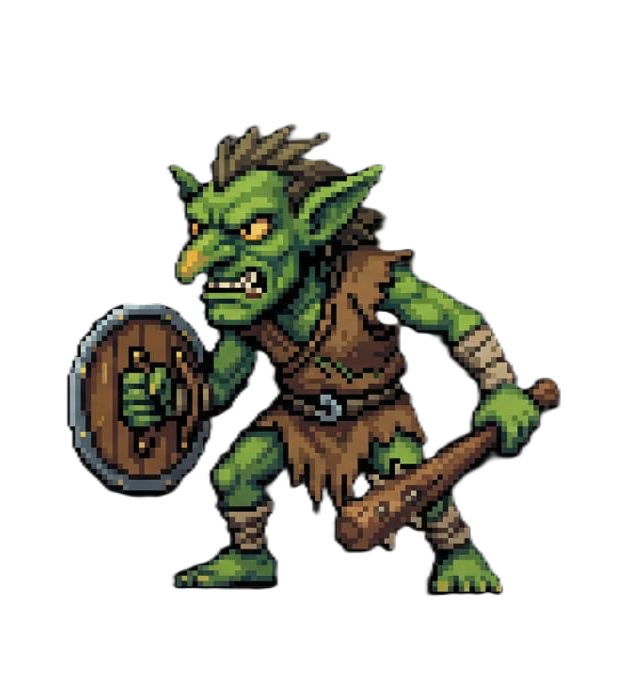
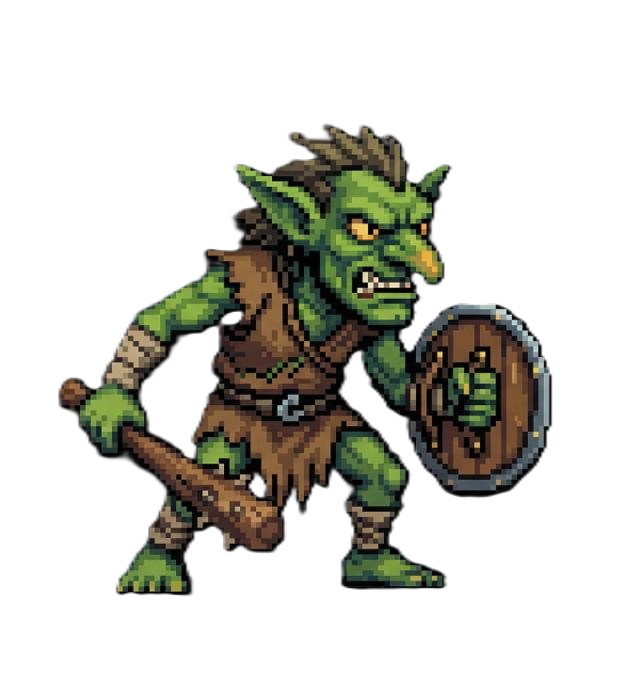
Refactorizar el combate, los enemigos, las plataformas y los recursos.
Actualizar recursos y renovar los sistemas de juego de StoryMode: reemplazar/agregar imágenes (Duende.png actualizado, curacion.png agregado). Ajustar la tasa de aparición de gemas (2000 -> 7000 ms) y refinar el cálculo del centro de recolección de gemas. Acortar la animación de ataque (fotogramas/duración) y hacer que el movimiento cancele/interrumpa los ataques; inicializar la velocidad vertical del proyectil. Cambiar la lógica de impacto del proyectil para disminuir enemy.health y solo eliminar enemigos cuando health <= 0; los enemigos ahora tienen maxHealth y comienzan con 3 HP. Rediseñar las plataformas flotantes en muchas zonas temáticas con posiciones/alturas variadas. Mejorar la representación de enemigos: sprite de duende más grande, volteo horizontal para mirar al jugador y una barra de HP medieval estilizada con degradado/reflejo. Correcciones y comentarios varios para coincidir con los nuevos comportamientos.

diff --git a/js/story.js b/js/story.js
@@ -144,7 +144,7 @@ export class StoryMode {
         this.gems = [];
         this.maxGems = 5; // Cantidad fija de gemas en el escenario
         this.gemSpawnTimer = 0;
-        this.gemSpawnInterval = 2000;
+        this.gemSpawnInterval = 7000;
 
         // Proyectiles
         this.projectiles = [];
@@ -190,7 +190,7 @@ export class StoryMode {
                 idle: { start: 0, end: 3 },
                 walking: { start: 4, end: 18 },
                 jumping: { start: 19, end: 30 },
-                attacking: { start: 33, end: 48 }
+                attacking: { start: 33, end: 43 }
             }
         };
 
@@ -262,37 +262,82 @@ export class StoryMode {
             isFloor: true
         });
 
-        // Plataformas flotantes — posiciones Y relativas al suelo para adaptarse a cualquier resolución
-        // Salto máximo ~144px, así que las plataformas están en 3 niveles alcanzables:
-        //   Nivel 1: 100-130px sobre el suelo (alcanzable desde el suelo)
-        //   Nivel 2: 200-240px sobre el suelo (alcanzable desde nivel 1)
-        //   Nivel 3: 300-340px sobre el suelo (alcanzable desde nivel 2)
+        // Plataformas flotantes — alturas variadas y patrones únicos por zona
+        // Salto máximo ~144px. Nivel 1: alcanzable desde suelo. Nivel 2: alcanzable desde nivel 1 cercano.
         const groundY = this.config.height - 50;
 
         const floatingPlatforms = [
-            // Nivel 1 — alcanzable desde el suelo
-            { x: 400, y: groundY - 120, width: 120, height: 20 },
-            { x: 1050, y: groundY - 100, width: 110, height: 20 },
-            { x: 2100, y: groundY - 110, width: 150, height: 20 },
-            { x: 2700, y: groundY - 120, width: 140, height: 20 },
-            { x: 3300, y: groundY - 100, width: 130, height: 20 },
-            { x: 4500, y: groundY - 110, width: 120, height: 20 },
-            { x: 5100, y: groundY - 120, width: 130, height: 20 },
-            { x: 5700, y: groundY - 100, width: 100, height: 20 },
-            // Nivel 2 — alcanzable desde nivel 1
-            { x: 600, y: groundY - 220, width: 100, height: 20 },
-            { x: 1550, y: groundY - 210, width: 120, height: 20 },
-            { x: 2400, y: groundY - 230, width: 120, height: 20 },
-            { x: 3000, y: groundY - 220, width: 110, height: 20 },
-            { x: 3900, y: groundY - 210, width: 100, height: 20 },
-            { x: 4800, y: groundY - 230, width: 110, height: 20 },
-            { x: 5400, y: groundY - 220, width: 120, height: 20 },
-            // Nivel 3 — alcanzable desde nivel 2
-            { x: 800, y: groundY - 330, width: 140, height: 20 },
-            { x: 1300, y: groundY - 320, width: 130, height: 20 },
-            { x: 1800, y: groundY - 310, width: 100, height: 20 },
-            { x: 3600, y: groundY - 330, width: 120, height: 20 },
-            { x: 4200, y: groundY - 320, width: 140, height: 20 }
+            // === ZONA 1: Escalera ascendente (x: 300-1100) ===
+            { x: 350,  y: groundY - 60,  width: 150, height: 20 },
+            { x: 580,  y: groundY - 100, width: 120, height: 20 },
+            { x: 820,  y: groundY - 135, width: 100, height: 20 },
+            { x: 700,  y: groundY - 210, width: 90,  height: 20 },
+
+            // === ZONA 2: Plataformas bajas y anchas (x: 1200-1900) ===
+            { x: 1200, y: groundY - 70,  width: 180, height: 20 },
+            { x: 1500, y: groundY - 80,  width: 160, height: 20 },
+            { x: 1750, y: groundY - 65,  width: 170, height: 20 },
+
+            // === ZONA 3: Zigzag vertical (x: 2000-2800) ===
+            { x: 2050, y: groundY - 130, width: 100, height: 20 },
+            { x: 2250, y: groundY - 70,  width: 110, height: 20 },
+            { x: 2450, y: groundY - 120, width: 95,  height: 20 },
+            { x: 2650, y: groundY - 60,  width: 130, height: 20 },
+            { x: 2350, y: groundY - 200, width: 85,  height: 20 },
+
+            // === ZONA 4: Torre con escalones (x: 2900-3500) ===
+            { x: 2950, y: groundY - 80,  width: 140, height: 20 },
+            { x: 3100, y: groundY - 140, width: 110, height: 20 },
+            { x: 3050, y: groundY - 205, width: 100, height: 20 },
+            { x: 3350, y: groundY - 90,  width: 120, height: 20 },
+
+            // === ZONA 5: Plataformas gemelas (x: 3600-4300) ===
+            { x: 3650, y: groundY - 100, width: 100, height: 20 },
+            { x: 3850, y: groundY - 100, width: 100, height: 20 },
+            { x: 3750, y: groundY - 190, width: 130, height: 20 },
+            { x: 4100, y: groundY - 75,  width: 150, height: 20 },
+
+            // === ZONA 6: Dispersas y variadas (x: 4400-5200) ===
+            { x: 4450, y: groundY - 115, width: 90,  height: 20 },
+            { x: 4700, y: groundY - 60,  width: 170, height: 20 },
+            { x: 4950, y: groundY - 130, width: 80,  height: 20 },
+            { x: 4600, y: groundY - 195, width: 100, height: 20 },
+            { x: 5150, y: groundY - 85,  width: 140, height: 20 },
+
+            // === ZONA 7: Escalera descendente (x: 5300-6100) ===
+            { x: 5350, y: groundY - 140, width: 100, height: 20 },
+            { x: 5550, y: groundY - 110, width: 120, height: 20 },
+            { x: 5780, y: groundY - 75,  width: 150, height: 20 },
+            { x: 5450, y: groundY - 210, width: 85,  height: 20 },
+            { x: 6050, y: groundY - 95,  width: 110, height: 20 },
+
+            // === ZONA 8: Puente con hueco (x: 6200-7000) ===
+            { x: 6250, y: groundY - 90,  width: 160, height: 20 },
+            { x: 6600, y: groundY - 90,  width: 160, height: 20 },
+            { x: 6420, y: groundY - 185, width: 100, height: 20 },
+            { x: 6900, y: groundY - 120, width: 100, height: 20 },
+
+            // === ZONA 9: Alturas extremas variadas (x: 7100-7900) ===
+            { x: 7150, y: groundY - 60,  width: 180, height: 20 },
+            { x: 7400, y: groundY - 135, width: 90,  height: 20 },
+            { x: 7600, y: groundY - 70,  width: 120, height: 20 },
+            { x: 7500, y: groundY - 200, width: 95,  height: 20 },
+            { x: 7850, y: groundY - 105, width: 130, height: 20 },
+
+            // === ZONA 10: Compactas y cercanas (x: 8000-8700) ===
+            { x: 8050, y: groundY - 85,  width: 100, height: 20 },
+            { x: 8200, y: groundY - 120, width: 100, height: 20 },
+            { x: 8350, y: groundY - 80,  width: 100, height: 20 },
+            { x: 8500, y: groundY - 130, width: 100, height: 20 },
+            { x: 8250, y: groundY - 205, width: 90,  height: 20 },
+
+            // === ZONA 11: Final del mapa (x: 8800-9700) ===
+            { x: 8850, y: groundY - 70,  width: 140, height: 20 },
+            { x: 9050, y: groundY - 110, width: 110, height: 20 },
+            { x: 9250, y: groundY - 140, width: 100, height: 20 },
+            { x: 9150, y: groundY - 210, width: 85,  height: 20 },
+            { x: 9500, y: groundY - 90,  width: 150, height: 20 },
+            { x: 9700, y: groundY - 65,  width: 130, height: 20 },
         ];
 
         floatingPlatforms.forEach(platform => {
@@ -333,8 +378,26 @@ export class StoryMode {
             return;
         }
 
-        // Movimiento horizontal
-        if (this.keys['KeyA'] || this.keys['ArrowLeft']) {
+        // Movimiento horizontal — se bloquea durante la animación de ataque
+        // pero si el jugador presiona una tecla de movimiento, cancela el ataque
+        if (this.animationState === 'attacking') {
+            if (this.keys['KeyA'] || this.keys['ArrowLeft']) {
+                // Cancelar animación de ataque y mover a la izquierda
+                this.animationState = 'walking';
+                this.animationFrame = 0;
+                this.player.velocityX = -this.config.playerSpeed;
+                this.player.facing = -1;
+            } else if (this.keys['KeyD'] || this.keys['ArrowRight']) {
+                // Cancelar animación de ataque y mover a la derecha
+                this.animationState = 'walking';
+                this.animationFrame = 0;
+                this.player.velocityX = this.config.playerSpeed;
+                this.player.facing = 1;
+            } else {
+                // Sin tecla de movimiento: detener al personaje mientras ataca
+                this.player.velocityX = 0;
+            }
+        } else if (this.keys['KeyA'] || this.keys['ArrowLeft']) {
             this.player.velocityX = -this.config.playerSpeed;
             this.player.facing = -1;
         } else if (this.keys['KeyD'] || this.keys['ArrowRight']) {
@@ -476,10 +539,18 @@ export class StoryMode {
             for (let i = this.enemies.length - 1; i >= 0; i--) {
                 const enemy = this.enemies[i];
                 if (this.checkCollision(projectile, enemy)) {
-                    this.enemies.splice(i, 1);
-                    this.createParticles(enemy.x + enemy.width / 2, enemy.y + enemy.height / 2, '#FF00FF');
-                    this.player.enemiesDefeated++;
-                    this.score += 100;
+                    // Restar vida al enemigo
+                    enemy.health--;
+                    
+                    // Crear partículas de impacto
+                    this.createParticles(projectile.x, projectile.y, '#FF00FF');
+
+                    if (enemy.health <= 0) {
+                        this.enemies.splice(i, 1);
+                        this.createParticles(enemy.x + enemy.width / 2, enemy.y + enemy.height / 2, '#FF00FF');
+                        this.player.enemiesDefeated++;
+                        this.score += 100;
+                    }
                     return false;
                 }
             }
@@ -647,8 +718,8 @@ export class StoryMode {
             // El sprite (153x153) se alinea por los pies con el hitbox (40x60),
             // así que el centro visual está muy por encima del centro del hitbox.
             const playerVisualCenterX = this.player.x + this.player.width / 2;
-            // El sprite se extiende ~88px arriba del hitbox top, centro visual ≈ 40px arriba del hitbox top
-            const playerVisualCenterY = this.player.y - 40;
+            // Centro del cuerpo del personaje para recogida
+            const playerVisualCenterY = this.player.y + this.player.height / 2;
             const gemCenterX = gem.x + gem.width / 2;
             const gemCenterY = gem.y + gem.height / 2;
 
@@ -690,7 +761,8 @@ export class StoryMode {
             velocityX: 0,
             velocityY: 0, // Inicializar velocidad Y en 0
             color: '#9400D3',
-            health: 1,
+            maxHealth: 3,
+            health: 3,
             isGrounded: true, // Comenzar en el suelo
             isJumping: false
         };
@@ -761,8 +833,8 @@ export class StoryMode {
         // 1. Prioridad: Ataque
         if (this.animationState === 'attacking') {
             const timeSinceAttack = Date.now() - (this.attackAnimationTimer || 0);
-            // El ataque tiene 16 frames, durará aprox 16 * 80 = 1280ms
-            if (timeSinceAttack > 1280) {
+            // El ataque tiene 11 frames, durará aprox 11 * 80 = 880ms
+            if (timeSinceAttack > 880) {
                 this.animationState = 'idle';
             } else {
                 currentAnimationSpeed = 80; // Ataque más lento
@@ -931,13 +1003,63 @@ export class StoryMode {
                 const duendeWidth = 100;  // Ancho aumentado para mejor proporción
                 const duendeHeight = 150; // Alto proporcional (1.5x el ancho)
 
+                // Determinar si el enemigo debe voltear hacia el jugador
+                // El sprite del duende mira a la izquierda por defecto,
+                // así que volteamos cuando el jugador está a la derecha
+                const enemyFacingRight = this.player.x > enemy.x;
+
+                this.ctx.save();
+
+                const drawX = enemy.x - duendeWidth / 2;
+                const drawY = enemy.y;
+
+                if (enemyFacingRight) {
+                    // Voltear horizontalmente para mirar a la derecha
+                    this.ctx.translate(enemy.x, 0);
+                    this.ctx.scale(-1, 1);
+                    this.ctx.translate(-enemy.x, 0);
+                }
+
                 this.ctx.drawImage(
                     this.duendeImage,
-                    enemy.x - duendeWidth / 2, // Centrar horizontalmente
-                    enemy.y,                   // Posición Y es la base del sprite
+                    drawX,
+                    drawY,
                     duendeWidth,
                     duendeHeight
                 );
+
+                // --- BARRA DE VIDA MEDIEVAL PARA ENEMIGO ---
+                const hpBarWidth = 60;
+                const hpBarHeight = 8;
+                const hpBarX = enemy.x - hpBarWidth / 2;
+                const hpBarY = enemy.y - 15; // Un poco por encima del duende
+
+                // 1. Marco de hierro/madera oscura
+                this.ctx.fillStyle = '#1a1105';
+                this.ctx.fillRect(hpBarX, hpBarY, hpBarWidth, hpBarHeight);
+
+                // 2. Fondo de la barra (Rojo muy oscuro/sangre seca)
+                this.ctx.fillStyle = '#2a0505';
+                this.ctx.fillRect(hpBarX + 1, hpBarY + 1, hpBarWidth - 2, hpBarHeight - 2);
+
+                // 3. Relleno de vida (Sangre fresca)
+                const hpPercentage = enemy.health / enemy.maxHealth;
+                const fillWidth = (hpBarWidth - 2) * Math.max(0, hpPercentage);
+                
+                if (fillWidth > 0) {
+                    const grad = this.ctx.createLinearGradient(hpBarX, hpBarY, hpBarX, hpBarY + hpBarHeight);
+                    grad.addColorStop(0, '#ff4d4d');
+                    grad.addColorStop(0.5, '#cc0000');
+                    grad.addColorStop(1, '#8b0000');
+                    this.ctx.fillStyle = grad;
+                    this.ctx.fillRect(hpBarX + 1, hpBarY + 1, fillWidth, hpBarHeight - 2);
+
+                    // Reflejo/brillo metálico
+                    this.ctx.fillStyle = 'rgba(255, 255, 255, 0.2)';
+                    this.ctx.fillRect(hpBarX + 1, hpBarY + 1, fillWidth, (hpBarHeight - 2) / 2);
+                }
+
+                this.ctx.restore();
             } else {
                 // Fallback - dibujar rectángulo simple con posición corregida
                 this.ctx.fillStyle = enemy.color;